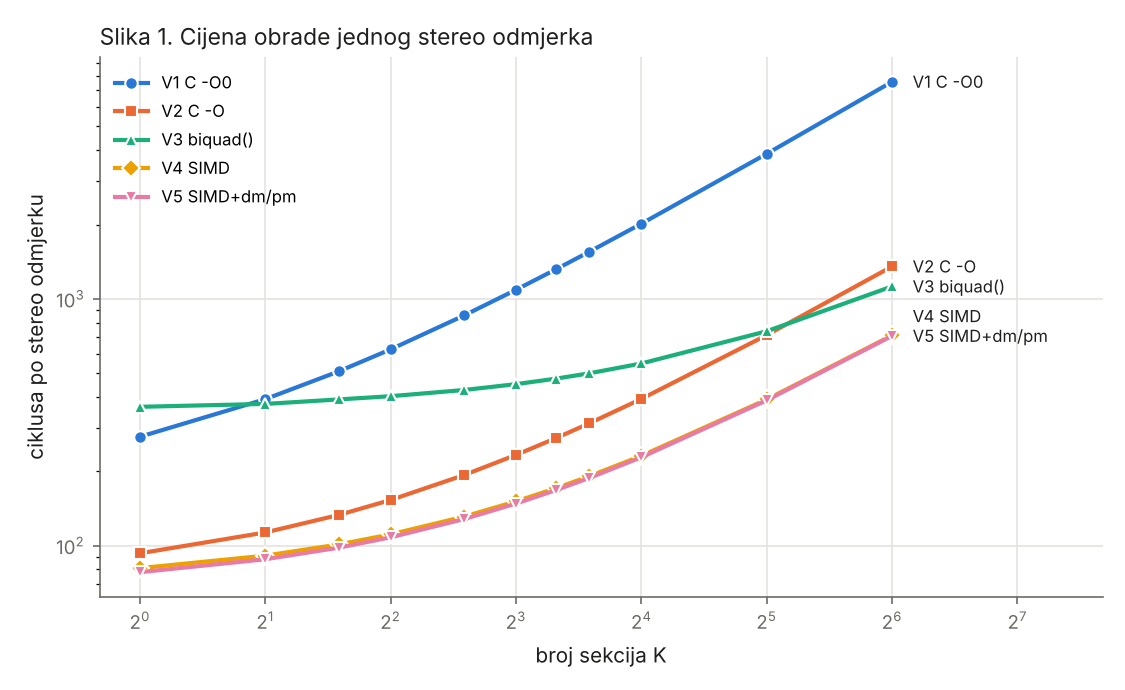
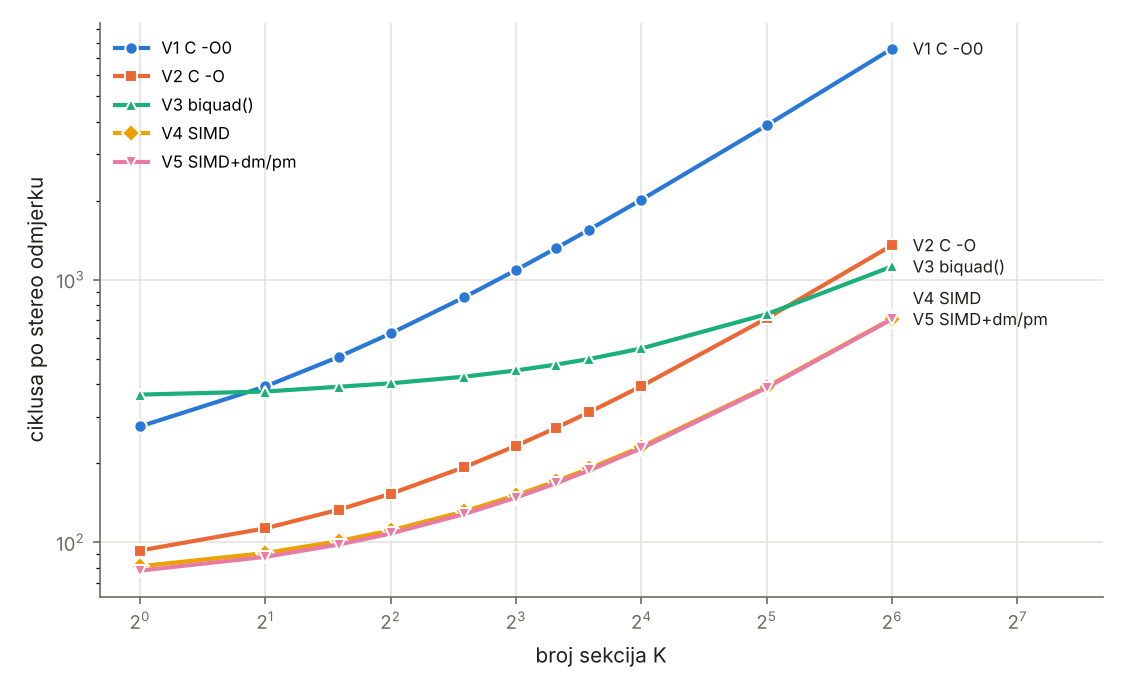
fix(lab5): uklonjeni naslovi grafika

diff --git a/lab5_eq/tools/plot_results.py b/lab5_eq/tools/plot_results.py
@@ -1,5 +1,5 @@
 """
-plot_results.py - grafici iz rezultata benchmarka (eq_bench.c).
+plot_results.py (slike bez naslova - naslov je potpis u izvjestaju) - grafici iz rezultata benchmarka (eq_bench.c).
 
 Upotreba:
   1. Iz Console ispisa kopirati redove izmedju CSV_BEGIN i CSV_END u results.csv
@@ -73,7 +73,6 @@ def main(path):
     ax.set_xscale("log", base=2); ax.set_yscale("log")
     ax.set_xlim(0.8, kmax * 3.2)
     ax.set_xlabel("broj sekcija K", color=INK); ax.set_ylabel("ciklusa po stereo odmjerku", color=INK)
-    ax.set_title("Slika 1. Cijena obrade jednog stereo odmjerka", color=INK, fontsize=11, loc="left")
     style(ax); ax.legend(frameon=False, fontsize=8, loc="upper left")
     fig.tight_layout(); fig.savefig("slika1_ciklusi_vs_K.png"); plt.close(fig)
 
@@ -89,8 +88,6 @@ def main(path):
     ax.axhline(2.5, color=MUTED, linestyle=":", linewidth=1.5, label="SIMD minimum = 2,5")
     ax.legend(frameon=False, fontsize=8, loc="upper right")
     ax.set_ylabel("ciklusa po sekciji po kanalu", color=INK)
-    ax.set_title("Slika 2. Izmjerena cijena sekcije (nagib b/2) i teorijski minimum",
-                 color=INK, fontsize=11, loc="left")
     style(ax); ax.grid(axis="x", visible=False)
     fig.tight_layout(); fig.savefig("slika2_ciklusi_po_sekciji.png"); plt.close(fig)
 
